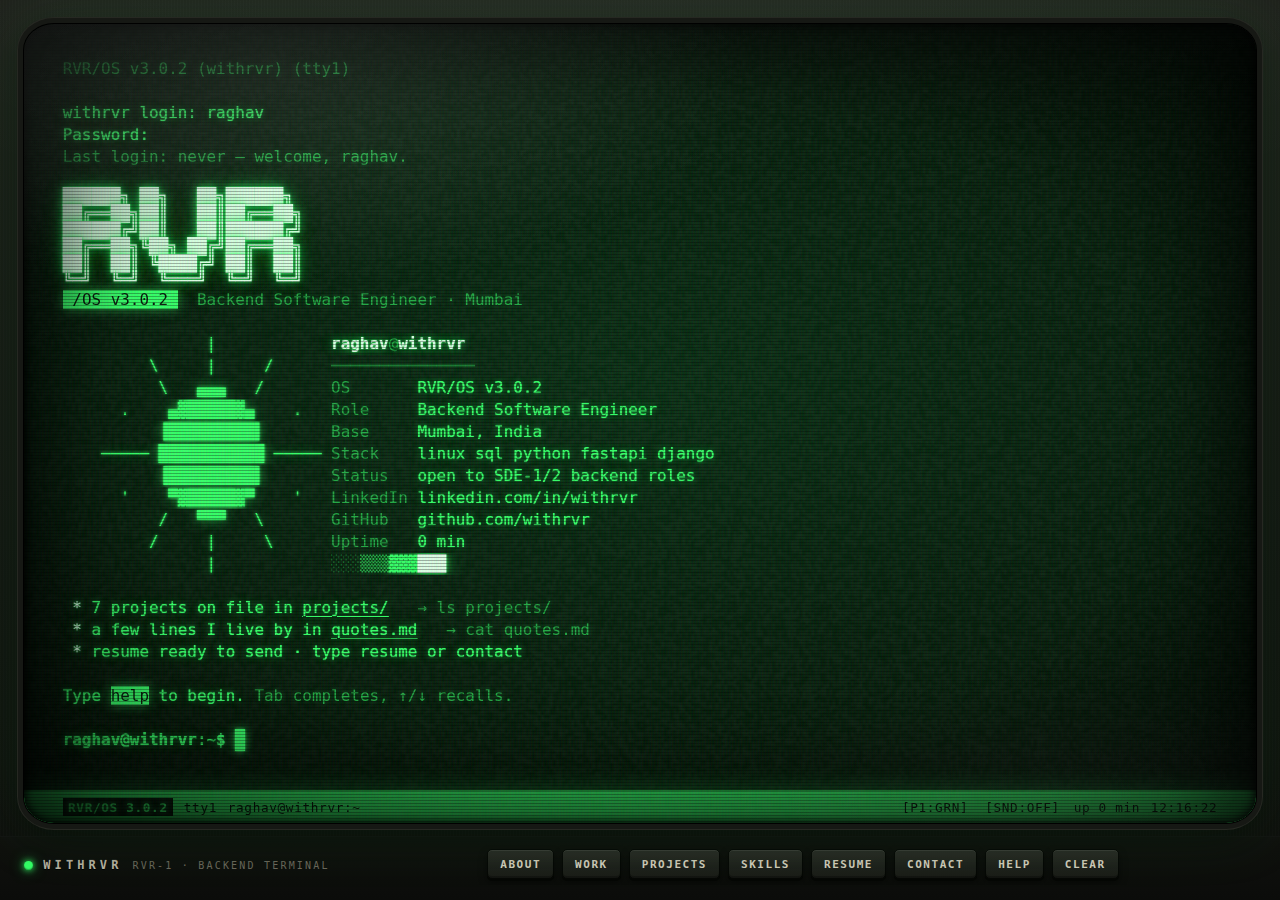
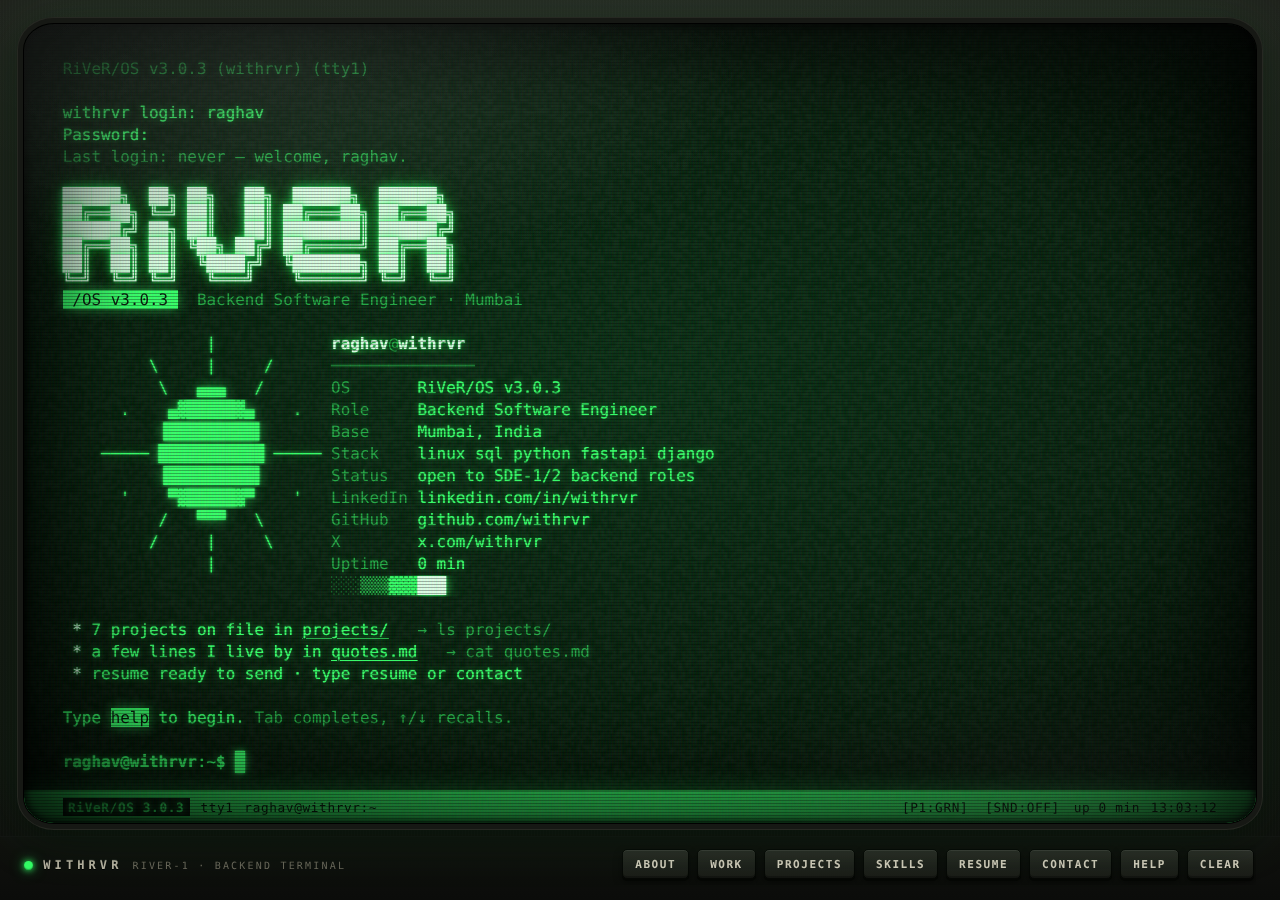
v3.0.3: RiVeR branding, new about/experience/whoami, X link (#12)
* v3.0.3: RiVeR branding, new about/experience/whoami, X link

- Rename the shown brand RVR -> RiVeR (title, RiVeR/OS name and badge,
  block-letter logo with lowercase i/e, BIOS badge and boot text,
  footer model, uname, os-release, weather header). The withrvr
  handle, URLs, hostname and the internal localStorage key are
  unchanged so links and saved preferences keep working.
- Rewrite about.txt with the new long-form About.
- Rewrite the Homeville Group entry in experience.log (Jun 2025 -
  Present), grouped into Securitization / DA, Escrow Management, and
  LLM Integration / AI Microservices.
- whoami prints the name and the RiVeR tagline.
- Add x.com/withrvr to the boot banner, contact.txt, and llms.txt.
- Bump v3.0.2 -> v3.0.3, add the 3.0.3 changelog entry (and log the
  #11 link/footer changes under 3.0.2), regenerate the README
  screenshot.

Claude-Session: https://claude.ai/code/session_01NvShUat8HuTaDXhD1L3PdA

* Compute Homeville tenure from Jun 2025 instead of hardcoding it

The experience.log duration ("1 yr 5 mos") is now built on page load
by a small tenure() helper, counted LinkedIn-style with both the start
and current month included, so it stays correct month to month.

Claude-Session: https://claude.ai/code/session_01NvShUat8HuTaDXhD1L3PdA

* About: mention LinkedIn alongside X under "Currently"

Claude-Session: https://claude.ai/code/session_01NvShUat8HuTaDXhD1L3PdA

---------

diff --git a/index.html b/index.html
@@ -3,7 +3,7 @@
 <head>
 <meta charset="UTF-8">
 <meta name="viewport" content="width=device-width, initial-scale=1">
-<title>RVR/OS v3.0.2 — Raghav Rathi, Backend Engineer</title>
+<title>RiVeR/OS v3.0.3 — Raghav Rathi, Backend Engineer</title>
 <meta name="description" content="Raghav Rathi (withrvr) — Backend Software Engineer. A working CRT-terminal portfolio: cat about.txt, ls projects/, grab the resume, or just play snake.">
 <meta name="theme-color" content="#031a07">
 <link rel="icon" href="favicon.svg" type="image/svg+xml">
@@ -313,7 +313,7 @@ body{
 </head>
 <body>
 <main class="monitor" id="monitor">
-  <h1 class="sr">RVR/OS — Raghav Rathi, backend software engineer, a terminal portfolio</h1>
+  <h1 class="sr">RiVeR/OS — Raghav Rathi, backend software engineer, a terminal portfolio</h1>
   <div class="screen" id="screen">
     <div class="crt off" id="crt">
       <svg class="bios-badge" id="biosBadge" viewBox="0 0 190 104" aria-hidden="true">
@@ -326,7 +326,7 @@ body{
           <path d="M104 22h78M104 70h78" stroke-width="1.4"/>
         </g>
         <text x="104" y="42" fill="currentColor" font-family="DejaVu Sans Mono, Menlo, Consolas, monospace" font-size="15" font-weight="700" letter-spacing="1.5">WITH</text>
-        <text x="104" y="60" fill="currentColor" font-family="DejaVu Sans Mono, Menlo, Consolas, monospace" font-size="15" font-weight="700" letter-spacing="1.5">RVR</text>
+        <text x="104" y="60" fill="currentColor" font-family="DejaVu Sans Mono, Menlo, Consolas, monospace" font-size="15" font-weight="700" letter-spacing="1.5">RiVeR</text>
         <text x="104" y="88" fill="currentColor" font-family="DejaVu Sans Mono, Menlo, Consolas, monospace" font-size="9" letter-spacing="2.2">BACKEND ENGINEER</text>
       </svg>
       <div class="ghost" id="ghost" aria-hidden="true"></div>
@@ -337,7 +337,7 @@ body{
       </div>
       <canvas class="fx" id="fx" aria-hidden="true"></canvas>
       <div class="status" id="status">
-        <span class="tag">RVR/OS 3.0.2</span>
+        <span class="tag">RiVeR/OS 3.0.3</span>
         <span class="wide">tty1</span>
         <span class="wide" id="stPath">raghav@withrvr:~</span>
         <span class="fill"></span>
@@ -357,7 +357,7 @@ body{
   </div>
 </main>
 <footer class="strip">
-  <div class="brand"><span class="led" id="led"></span><span class="brand-name">withrvr</span><span class="brand-model">RVR-1 · Backend Terminal</span></div>
+  <div class="brand"><span class="led" id="led"></span><span class="brand-name">withrvr</span><span class="brand-model">RiVeR-1 · Backend Terminal</span></div>
   <nav class="keys" id="keys" aria-label="Quick commands">
     <button type="button" class="key" data-cmd="about">About</button>
     <button type="button" class="key" data-cmd="experience">Work</button>
@@ -583,6 +583,16 @@ function hurry(){ fast = true; flushReq = true; for (const o of sleepers){ clear
 
 /* ------------------------------------------------------------ files (real, mine) */
 const T = (lines) => lines.join('\n');
+// Tenure from a start month to now, counted LinkedIn-style (both end months inclusive): "1 yr 5 mos".
+function tenure(year, month){
+  const now = new Date();
+  const total = Math.max(1, (now.getFullYear() - year) * 12 + (now.getMonth() + 1 - month) + 1);
+  const y = Math.floor(total / 12), m = total % 12;
+  const parts = [];
+  if (y) parts.push(y + (y === 1 ? ' yr' : ' yrs'));
+  if (m) parts.push(m + (m === 1 ? ' mo' : ' mos'));
+  return parts.join(' ');
+}
 const F = (content, date) => ({ type: 'file', content, date });
 const D = (children, date) => ({ type: 'dir', children, date });
 
@@ -810,12 +820,12 @@ const FS = D({
   bin: D({}, 'Sep 25  2026'),
   etc: D({
     hostname: F('withrvr', 'Sep 25  2026'),
-    motd: F(T(['Welcome to RVR/OS.', 'cat about.txt to get started.']), 'Sep 25  2026'),
-    'os-release': F(T(['NAME="RVR/OS"', 'VERSION="3.0.2"', 'ID=withrvr', 'VENDOR="withrvr"', 'PRETTY_NAME="RVR/OS v3.0.2"']), 'Sep 25  2026')
+    motd: F(T(['Welcome to RiVeR/OS.', 'cat about.txt to get started.']), 'Sep 25  2026'),
+    'os-release': F(T(['NAME="RiVeR/OS"', 'VERSION="3.0.3"', 'ID=withrvr', 'VENDOR="withrvr"', 'PRETTY_NAME="RiVeR/OS v3.0.3"']), 'Sep 25  2026')
   }, 'Sep 25  2026'),
   home: D({
     raghav: D({
-      'readme.txt': F(T([    'RVR/OS v3.0.2 -- welcome',
+      'readme.txt': F(T([    'RiVeR/OS v3.0.3 -- welcome',
     '===============================================',
     'This is the terminal portfolio of Raghav Rathi (withrvr), a backend software engineer. Poke around like a real shell:',
     '',
@@ -838,45 +848,72 @@ const FS = D({
     '',
     'Type `help` any time to see the full command list.'
   ]), 'Sep 25  2026'),
-      'about.txt': F(T([    'Raghav Rathi -- Backend Software Engineer',
+      'about.txt': F(T([    'About',
     '===============================================',
-    'I\'m a backend software engineer based in Mumbai, India. I build and ship production systems across the Python ecosystem, from high-concurrency AsyncIO pipelines to FastAPI microservices and AI/LLM integrations.',
+    'Only read this if you really want to know who I actually am and what my days look like :)',
     '',
-    'At Homeville Group I work on AI microservices, LLM integration, and Python ecosystem projects, reporting to the VP of Technology. I\'ve rebuilt loan processing pipelines, shipped Tier-1 bank integrations, and modernized OCR and reconciliation systems.',
+    'Short version, if you want to skip. Builder and gamer at heart, and an unfiltered guy who shares everything when I talk. I learn something every day and share it, and I take input from anyone, random strangers and specialists alike, if it makes me better at the craft. I do the same in return, if I see or read something, I share my opinion or raise an issue, and expect the same from anyone. I love talking with anyone, tech or non tech, who enjoys a healthy conversation, and I am completely cool with a clash of opinions, because that is how both of us get better',
     '',
-    'My work was recognized at the Global Fintech Festival 2025. I care about systems that stay fast and correct under real traffic, enterprise constraints, and messy data.',
+    'By title, a backend software engineer who started doing LLM integration and AI workflows. Quietly, somewhere along the way, I turned into an end to end software engineer. Frontend, cloud, DevOps and deploys, QA and testing, planning, architecture, implementation, manage and maintain all of it',
     '',
-    'by the numbers',
-    '  6,000+   concurrent loans handled (was crashing past 300)',
-    '  95%      batch runtime cut (30+ min -> under 2 min)',
-    '  800K+    rows processed per run',
-    '  2        Tier-1 bank integrations shipped end to end',
+    'A normal day looks like',
+    '→ Python, FastAPI, Redis, MySQL, MongoDB, AWS',
+    '→ Claude Code, tmux, Ubuntu, Git, and a lot of .md files',
+    '→ LLM integration, prompting, and watching logs',
+    '→ checking news.ycombinator.com for what changed overnight',
+    '→ drafting a LinkedIn post in my head and usually not posting it, because in the background I am already explaining it like a YouTube video, so it stays with me anyway :/',
     '',
-    'Before this: a Diploma in Computer Engineering at Government Polytechnic Amravati, then a B.E. in Computer Engineering at Thadomal Shahani Engineering College, Mumbai (2021-2025), with internships at HN Web Marketing and Bitlance Tech Hub along the way.',
+    'How I build, correct first, then fast, then maintainable. I build for the failure cases and retries, not just the happy path, because that is what breaks systems at scale',
     '',
-    'Longer term, I\'m building toward products of my own, and eventually leading a team.',
+    'Along the way',
+    '→ Global Fintech Festival 2025 recognition for the DA and Securitization project, integrated with Finternet',
+    '→ LeetCode 1,563 rating, top 30%, 400+ problems, 11 badges',
+    '→ Coding Ninjas Master badge, top 4%',
     '',
-    '  cat experience.log     the detailed version',
-    '  cat skills.txt         what I build with'
+    'Currently',
+    '→ learning from github.com/rohitg00/ai-engineering-from-scratch',
+    '→ posting on x.com/withrvr and linkedin.com/in/withrvr/',
+    '→ reading books and articles on scaling servers for high throughput and low latency',
+    '',
+    'Side projects in focus',
+    '→ TypeRush, stable at v0.7.0, major update coming after a while',
+    '→ Prompt Navigator, browser extension in beta, proper release soon',
+    '→ Currently building a ticket categorizer using System 1 decision models, locally hosted',
+    '→ A gamified, map heavy mobile app for runners, deep in the planning and architecture phase',
+    '',
+    'Next to learn properly, Kubernetes and Kafka, production grade',
+    '',
+    'Thanks for actually reading about who I really am... x_D',
+    '',
+    'Always glad to trade notes with engineers building serious backend or AI native systems.',
+    '',
+    'Follow or connect if you want to stay in the loop, and comment or DM anytime, I read everything'
   ]), 'Sep 25  2026'),
       'experience.log': F(T([    'WHERE I\'VE BUILT',
     '===============================================',
-    'Homeville Group -- Software Engineer',
-    'Jun 2025 -- Oct 2026 -- Mumbai, India',
-    'AI microservices, LLM integration, and Python ecosystem projects, reporting to the VP of Technology.',
+    'Software Engineer',
+    'Homeville Group · Full-time',
+    'Jun 2025 - Present · ' + tenure(2025, 6),
+    'Mumbai · On-site',
     '',
-    '  - Rebuilt a loan processing pipeline that crashed past 300 concurrent loans into one stably handling 6,000+, with AsyncIO.',
-    '  - Cut batch runtime 95%, from 30+ minutes to under 2 minutes, across ~800K rows per run.',
-    '  - Eliminated a MySQL query bottleneck, cutting latency from 80 seconds to 7 seconds at high concurrency.',
-    '  - Scaled backend task processing with async workers and queues, improving throughput and reducing latency.',
-    '  - Owned 3 projects: schema decisions, feature builds, and independently fixing production bugs.',
-    '  - Built and shipped 2 Tier-1 bank integrations end to end, with idempotent data contracts for critical transactions.',
-    '  - Spearheaded a FastAPI speech-to-text and translation service with Gemini API summaries, end to end.',
-    '  - Benchmarked open-source and cloud transcription models; selected Fast Whisper for production.',
-    '  - Built a rule-based policy engine for investors to define custom loan risk rules.',
-    '  - Developed CRON-driven async workers for event-driven automation, anomaly detection, and reporting.',
-    '  - Migrated the multi-tenant reconciliation engine to Python.',
-    '  - Modernized the OCR pipeline: text extraction, image transformation, and PII masking for images and PDFs.',
+    '> Ownership of 3 projects across schema design, feature development, and production fixes, guided by and discussed with the VP of Technology',
+    '',
+    'Securitization / DA',
+    '  - Rebuilt loan processing from crashing at 300 to handling 6,000+ concurrent loans',
+    '  - Cut batch processing time by 95% across ~800K rows',
+    '  - Reduced database query latency from 80s to 7s',
+    '  - Improved RPS bulk insert performance by 4× using dual queues, workers, and indexing to prevent deadlocks',
+    '  - Built company-specific SSO for partners/investors, employee on-boarding, and role-based access management',
+    '  - Built investor policy rule builder for loan matching, rejection, and risk assessment',
+    '',
+    'Escrow Management',
+    '  - Managed and maintained the multi-tenant reconciliation system',
+    '  - Integrated two Tier-1 banks with idempotent transaction handling',
+    '',
+    'LLM Integration / AI Microservices',
+    '  - Self-hosted LLMs and benchmarked models across use cases for production selection',
+    '  - Built FastAPI speech-to-text and translation service with Gemini-powered summaries',
+    '  - Improved OCR pipelines for image/PDF extraction and PII masking',
     '',
     '  stack: Python . AsyncIO . FastAPI . MySQL . Gemini API . AWS . GCP . OCR',
     '-----------------------------------------------',
@@ -945,6 +982,7 @@ const FS = D({
     'Email     raghavrathi8855@gmail.com',
     'LinkedIn  linkedin.com/in/withrvr',
     'GitHub    github.com/withrvr',
+    'X         x.com/withrvr',
     'LeetCode  leetcode.com/u/withrvr',
     'Location  Mumbai, India',
     '',
@@ -1001,12 +1039,12 @@ const sizeOf = n => n.type === 'dir' ? 512 : n.type === 'exe' ? 4096 + (n.name.l
 
 /* ------------------------------------------------------------ art */
 const LOGO = [
-  '██████╗ ██╗   ██╗██████╗',
-  '██╔══██╗██║   ██║██╔══██╗',
-  '██████╔╝██║   ██║██████╔╝',
-  '██╔══██╗╚██╗ ██╔╝██╔══██╗',
-  '██║  ██║ ╚████╔╝ ██║  ██║',
-  '╚═╝  ╚═╝  ╚═══╝  ╚═╝  ╚═╝'
+  '██████╗  ██╗ ██╗   ██╗  ██████╗  ██████╗',
+  '██╔══██╗ ╚═╝ ██║   ██║ ██╔═══██╗ ██╔══██╗',
+  '██████╔╝ ██╗ ██║   ██║ ████████║ ██████╔╝',
+  '██╔══██╗ ██║ ╚██╗ ██╔╝ ██╔═════╝ ██╔══██╗',
+  '██║  ██║ ██║  ╚████╔╝  ╚███████╗ ██║  ██║',
+  '╚═╝  ╚═╝ ╚═╝   ╚═══╝    ╚══════╝ ╚═╝  ╚═╝'
 ];
 const EMBLEM = [
   '             |',
@@ -1034,19 +1072,20 @@ let bannerEl = null;
 function bannerLines(cols){
   const L = [];
   if (cols >= 46){ for (const s of LOGO) L.push({ cls: 'logo', segs: [S(s, 'hot')] }); }
-  else L.push({ cls: '', segs: [S('W I T H R V R', 'hot b')] });
-  L.push({ cls: '', segs: [S(' /OS v3.0.2 ', 'inv'), S(cols >= 52 ? '  Backend Software Engineer · Mumbai' : '  backend engineer', 'dim')] });
+  else L.push({ cls: '', segs: [S('R i V e R', 'hot b')] });
+  L.push({ cls: '', segs: [S(' /OS v3.0.3 ', 'inv'), S(cols >= 52 ? '  Backend Software Engineer · Mumbai' : '  backend engineer', 'dim')] });
   L.push('');
   const info = [
     [S('raghav', 'hot b'), S('@', 'dim'), S('withrvr', 'hot b')],
     [S('───────────────', 'dim')],
-    [S('OS       ', 'dim'), S('RVR/OS v3.0.2')],
+    [S('OS       ', 'dim'), S('RiVeR/OS v3.0.3')],
     [S('Role     ', 'dim'), S('Backend Software Engineer')],
     [S('Base     ', 'dim'), S('Mumbai, India')],
     [S('Stack    ', 'dim'), S('linux sql python fastapi django')],
     [S('Status   ', 'dim'), S('open to SDE-1/2 backend roles')],
     [S('LinkedIn ', 'dim'), S('linkedin.com/in/withrvr')],
     [S('GitHub   ', 'dim'), S('github.com/withrvr')],
+    [S('X        ', 'dim'), S('x.com/withrvr')],
     [S('Uptime   ', 'dim'), S(uptimeStr())],
     [S('░░░', 'faint'), S('▒▒▒', 'dim'), S('▓▓▓'), S('███', 'hot')]
   ];
@@ -1244,7 +1283,7 @@ def('help', 'this list', 'help', async () => {
   const rows = Object.values(CMDS).filter(c => !c.hidden);
   const { cols } = measure();
   const w = cols >= 64 ? 26 : 0;
-  const L = [[S(' RVR/OS v3.0.2 ', 'inv'), S('  built-in commands', 'dim')], ''];
+  const L = [[S(' RiVeR/OS v3.0.3 ', 'inv'), S('  built-in commands', 'dim')], ''];
   for (const c of rows){
     if (w) L.push([S('  ' + c.usage.padEnd(w, ' '), 'hot'), S(c.desc, '')]);
     else { L.push([S('  ' + c.usage, 'hot')]); L.push([S('      ' + c.desc, 'dim')]); }
@@ -1310,7 +1349,7 @@ def('date', 'current date and time', 'date', () => {
   const d = new Date();
   return print([fmtDate(d), [S(`day ${dayOfYear(d)} · ISO week ${isoWeek(d)} · RTC battery 87 %`, 'dim')]]);
 });
-def('whoami', 'who you are', 'whoami', () => print(['raghav', [S('uid=1000(raghav) gid=100(engineering) groups=100(engineering),27(backend) · backend software engineer', 'dim')]]));
+def('whoami', 'who you are', 'whoami', () => print([[S('Raghav Rathi', 'hot b')], [S('RiVeR ~ goes with flow ~~ SDE by day, building side projects using AI by night 😅', 'dim')]]));
 def('theme', 'switch phosphor', 'theme <green|amber|ice>', async (argv) => {
   const t = (argv[0] || '').toLowerCase();
   if (!THEMES[t]) return print([[S('usage: theme green|amber|ice   ', ''), S('(current: ' + state.theme + ')', 'dim')]]);
@@ -1326,7 +1365,7 @@ def('history', 'command history', 'history', () => {
   return print(h.length ? h.map((c, i) => [S(String(off + i + 1).padStart(4, ' ') + '  ', 'dim'), S(c)]) : [[S('(no history yet)', 'dim')]]);
 });
 def('echo', 'print text', 'echo <text>', (argv, raw) => print([raw.replace(/^\s*echo\s?/i, '')]));
-def('uname', 'system name', 'uname [-a]', (argv) => print([argv.includes('-a') ? 'RVR withrvr 3.0.0-backend #1 Sep 2026 rvr1 RVR/OS' : 'RVR/OS']));
+def('uname', 'system name', 'uname [-a]', (argv) => print([argv.includes('-a') ? 'RiVeR withrvr 3.0.0-backend #1 Sep 2026 river1 RiVeR/OS' : 'RiVeR/OS']));
 def('uptime', 'time since power-on', 'uptime', () => {
   const d = new Date(); const s = Math.floor((Date.now() - state.bootAt) / 1000);
   return print([` ${pad2(d.getHours())}:${pad2(d.getMinutes())}:${pad2(d.getSeconds())} up ${Math.floor(s / 3600)}:${pad2(Math.floor(s / 60) % 60)}, 1 user, load average: 0.0${1 + (s % 7)}, 0.03, 0.01`]);
@@ -1457,7 +1496,7 @@ async function boot(isReboot){
     ''
   ], fast ? Infinity : 2600);
   await sleep(120);
-  await emit([narrow ? 'RVR-1/68030 CPU at 33 MHz, FPU present' : 'RVR-1/68030 CPU at 33 MHz · FPU present · 256 B cache'], fast ? Infinity : 3200);
+  await emit([narrow ? 'RiVeR-1/68030 CPU at 33 MHz, FPU present' : 'RiVeR-1/68030 CPU at 33 MHz · FPU present · 256 B cache'], fast ? Infinity : 3200);
   const mem = newLine('');
   await new Promise(res => {
     const t0 = performance.now(), D0 = 520;
@@ -1474,7 +1513,7 @@ async function boot(isReboot){
   await sleep(110);
   await emit([''], Infinity);
   const devs = [
-    ['Primary Master', 'RVR-DISK 120 MB'],
+    ['Primary Master', 'RiVeR-DISK 120 MB'],
     ['Primary Slave', 'None', 'dim'],
     ['Tape Drive', 'QIC-80 streamer'],
     ['Serial COM1', '19200 baud modem'],
@@ -1491,7 +1530,7 @@ async function boot(isReboot){
   await emit(['', [S(narrow ? 'Press DEL for SETUP · any key skips' : 'Press DEL to enter SETUP · any key to skip boot', 'dim')], ''], Infinity);
   await sleep(240);
   badge.classList.remove('show');
-  await emit([[S('Booting from RVR-DISK …', 'b')], [S('RVR/OS v3.0.2 loading', '')]], fast ? Infinity : 2400);
+  await emit([[S('Booting from RiVeR-DISK …', 'b')], [S('RiVeR/OS v3.0.3 loading', '')]], fast ? Infinity : 2400);
   const bar = newLine('');
   const BW = narrow ? 18 : 32;
   await new Promise(res => {
@@ -1525,7 +1564,7 @@ async function boot(isReboot){
 async function login(my){
   if (my == null) my = ++bootToken;
   state.mode = 'boot';
-  await emit([[S('RVR/OS v3.0.2 (withrvr) (tty1)', 'dim')], ''], Infinity);
+  await emit([[S('RiVeR/OS v3.0.3 (withrvr) (tty1)', 'dim')], ''], Infinity);
   const ln = newLine('');
   appendTo(ln, 'withrvr login: ');
   await sleep(170);
@@ -1560,7 +1599,7 @@ async function weather(){
   const { cols } = measure();
   const W = WX[now];
   const L = [
-    [S(' RVR WEATHER SERVICE ', 'inv'), S(cols >= 60 ? '  Mumbai, India (simulated)' : '', 'dim')],
+    [S(' RiVeR WEATHER SERVICE ', 'inv'), S(cols >= 60 ? '  Mumbai, India (simulated)' : '', 'dim')],
     [S(`${DAYS[d.getDay()]} ${d.getDate()} ${MONS[d.getMonth()]} · ${pad2(d.getHours())}:${pad2(d.getMinutes())} local · issued locally`, 'dim')],
     ''
   ];

diff --git a/CHANGELOG.md b/CHANGELOG.md
@@ -8,9 +8,38 @@ and this project adheres to [Semantic Versioning](https://semver.org/).
 v2's changelog (the Next.js build) is preserved in git history on `main`
 up to the v3 cutover commit.
 
+## [3.0.3] - 2026-10-26
+
+### Changed
+
+- Branding: `RVR` renamed to `RiVeR` everywhere it's shown (page title,
+  `RiVeR/OS` name and version badge, block-letter logo, BIOS badge and
+  boot text, footer model, `uname`, `os-release`, weather header). The
+  `withrvr` handle, URLs, and hostname are unchanged.
+- `about.txt` rewritten with the new long-form About.
+- `experience.log`: Homeville Group entry rewritten (now "Jun 2025 -
+  Present"), grouped into Securitization / DA, Escrow Management, and
+  LLM Integration / AI Microservices. Its "1 yr 5 mos" tenure is
+  computed from Jun 2025 on each page load (LinkedIn-style counting),
+  so it never goes stale.
+- `whoami` now prints the name and the RiVeR tagline.
+- Version strings throughout `index.html` and `README.md` bumped from
+  `v3.0.2` to `v3.0.3`.
+- README screenshot regenerated to match.
+
+### Added
+
+- X link (`x.com/withrvr`) in the boot banner, `contact.txt`, and
+  `llms.txt`.
+
 ## [3.0.2] - 2026-09-26
 
 ### Changed
+
+- Project `[GitHub]`/`[crates.io]` tags in the `projects` listing are
+  real links that open the project in a new tab.
+- Footer quick-command buttons are right-aligned on desktop (mobile
+  keeps its left-aligned, scrollable row).
 
 - All `-`/`=` divider strings across `index.html` normalized to exactly
   47 characters (they'd drifted to varying lengths between files).

diff --git a/README.md b/README.md
@@ -1,4 +1,4 @@
-# RVR/OS v3.0.2
+# RiVeR/OS v3.0.3
 
 Personal portfolio of **Raghav Rathi** ([withrvr](https://github.com/withrvr)) —
 a CRT-terminal simulation you drive by typing commands. One static HTML
@@ -6,7 +6,7 @@ file, no framework, no build step.
 
 **Live:** https://withrvr.github.io &nbsp;·&nbsp; try `help` once it boots.
 
-![RVR/OS v3.0 — a CRT-terminal boot screen showing the login sequence and an identity panel with role, stack, and contact links](docs/screenshot.png)
+![RiVeR/OS v3.0 — a CRT-terminal boot screen showing the login sequence and an identity panel with role, stack, and contact links](docs/screenshot.png)
 
 ## How it's built
 
